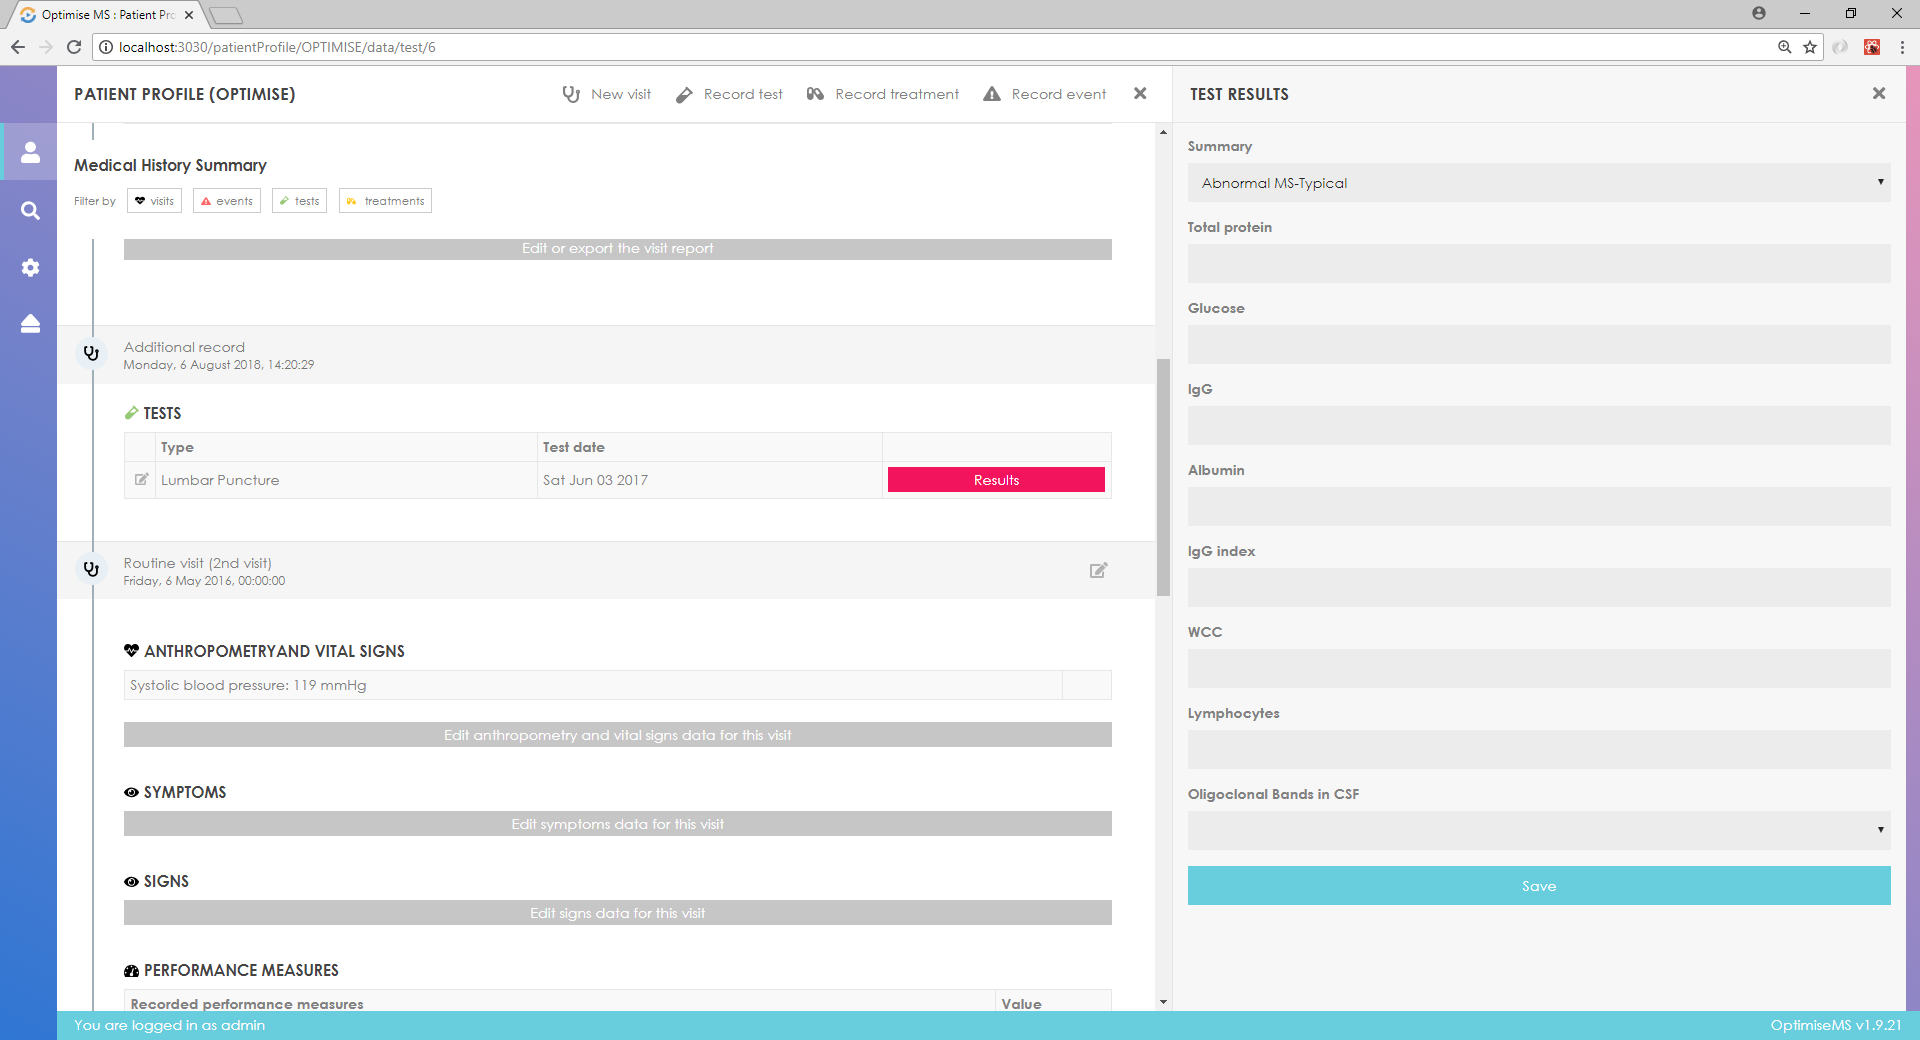
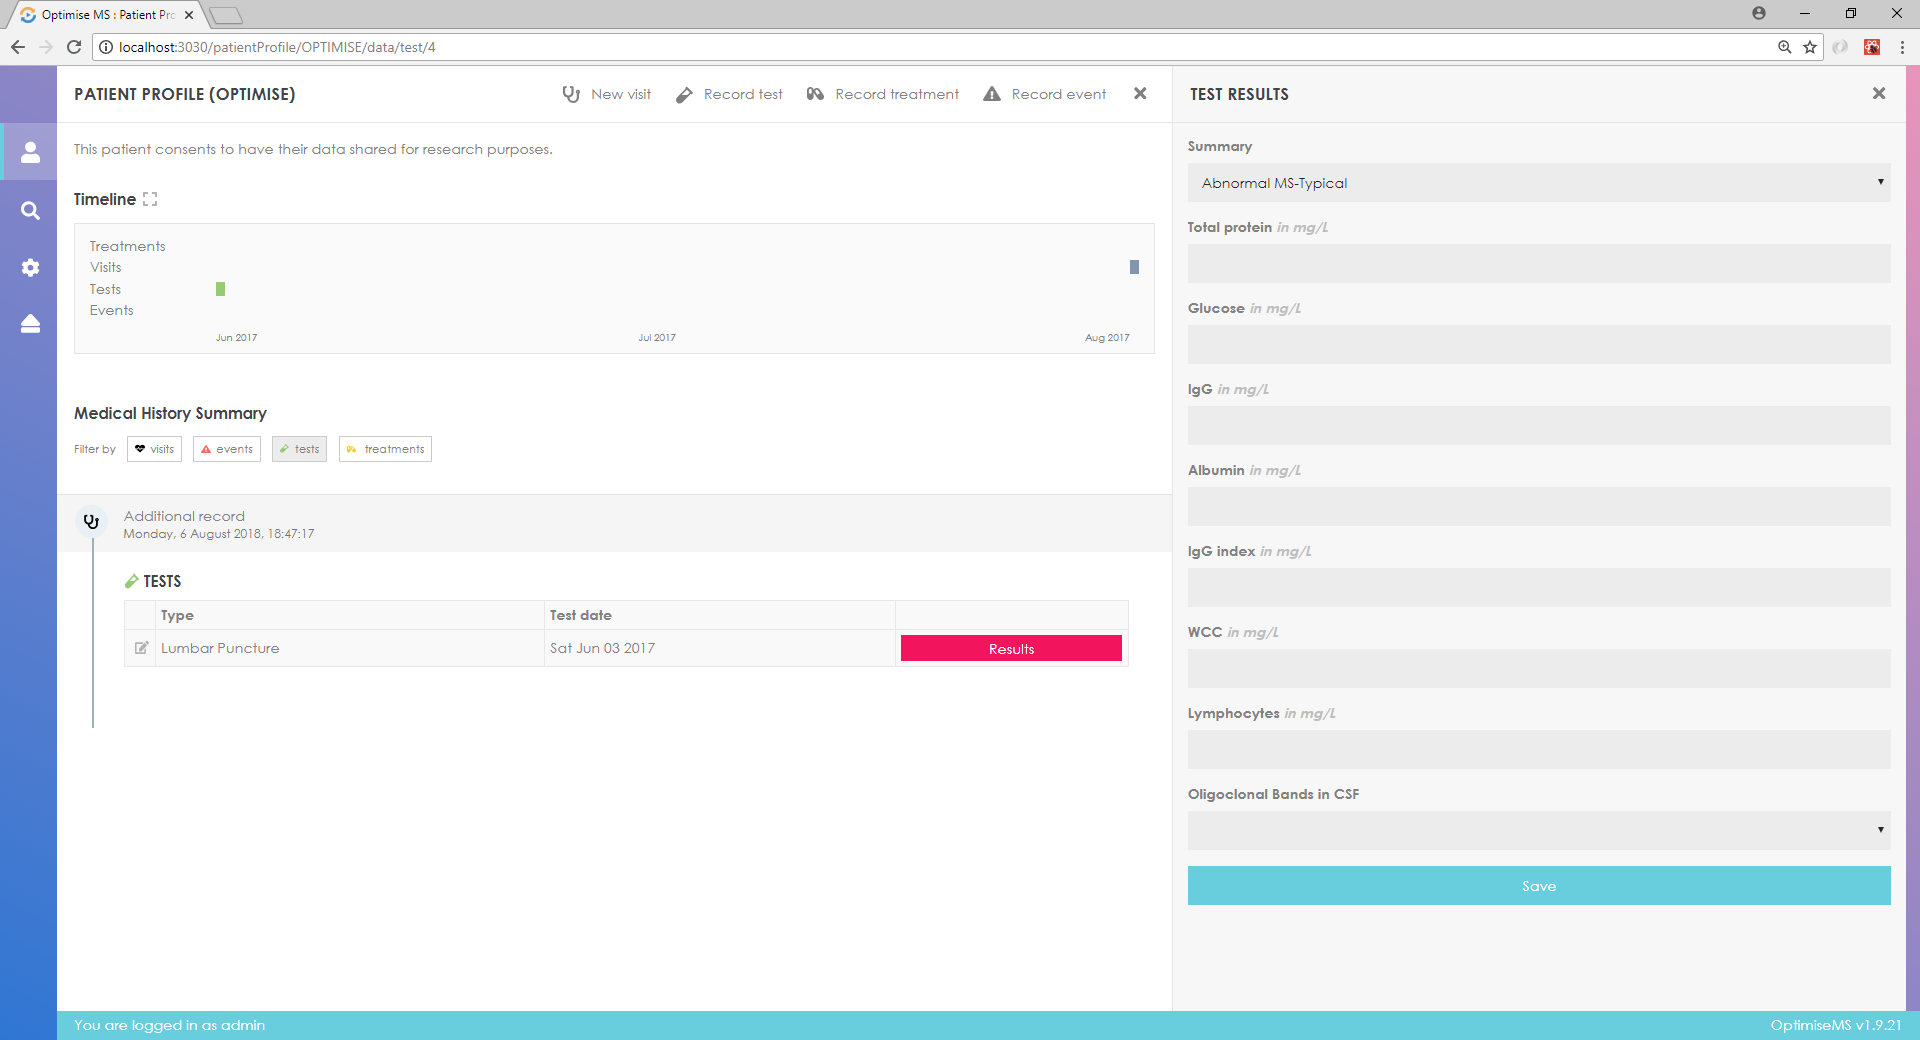
Adding some error messages/ Minor changes

diff --git a/website/extra/usermanual.html b/website/extra/usermanual.html
@@ -176,6 +176,8 @@
                     <img src="../img/perfMeasures.png" alt="perfMeasures"><br/><br/>
                     <p>The EDSS can be entered in two ways; the neurologist’s estimated EDSS or the calculated EDSS. The neurologist’s estimated EDSS score can be entered in the highlighted box in the right panel form.</p>
                     <img src="../img/estimatedEDSS.png" alt="estimatedEDSS"><br/><br/>
+                    <p>Only valid EDSS total scores (0 to 10 by 0.5 increment) may be accepted in this field. Entering a value other than those permitted will generate an error.</p>
+                    <img src="../img/edssError.png" alt="edssError"><br/><br/>
                     <p>Click Save for this estimated EDSS to be recorded. In addition, or alternatively, the functional systems can be scored separately and the total EDSS can be calculated by clicking on Open EDSS Calculator.</p>
                     <img src="../img/openCalc.png" alt="EDSScalculator"><br/><br/>
                     <p>For this, select a score for each EDSS subcategory. Hover over a score button to see the respective score description highlighted. The calculated total score will be shown in the Calculated score box. Note that an Ambulation score is required for the functional scores to be saved. Click Save to record the scores and then X to exit the calculator. To exit Performance Measures and return to the Patient Overview, click on X at the top right corner of the EDSS form.</p>
@@ -203,13 +205,20 @@
                     <img src="../img/testAdded.png" alt="testFormAdded"><br/><br/>
                     <p>Click on Results to enter further data for the test.</p>
                     <img src="../img/testResultsButton.png" alt="testResultsButton"><br/><br/>
-                    <p>Complete the form in the right panel. Click Save to record the test results or click X to cancel and return to the Patient Overview.</p>
+                    <p>Complete the form in the right panel and click Save to record the test results.</p>
                     <img src="../img/testResultsForm.png" alt="testResultsForm"><br/><br/>
+                    <p>Entering non-numeric input where this is invalid will generate the following error message. Correct and click Save.</p>
+                    <img src="../img/testResultsFormError.png" alt="testResultsFormError"><br/><br/>
+                    <p>At any point you can click X to cancel the test data entry and return to the Patient Overview.</p>
                     <p>Laboratory tests refer to blood or CSF tests only, e.g. total WBC, bilirubin and specific anti-body titres. After entering test results for a given reporting date, scroll down to the end of the page and click Save. Click X to return to the Patient Overview.</p>
-                    <img src="../img/labForm.png" alt="labForm"><br/><br/>                    
+                    <img src="../img/labForm.png" alt="labForm"><br/><br/>
+                    <p>Entering non-numeric characters in the laboratory tests will generate the following error message as numeric input is expected.</p>
+                    <img src="../img/labFormError.png" alt="labFormError"><br/><br/>
                     <p>Currently, only data concerning the presence or absence of T1 Hypointense Lesions and number of T2 Hyperintense Lesions and gadolinium (Gd) contrast enhancing lesions can be entered into the OPTIMISE MS database. The fields for an MRI test type are shown below.</p>
                     <img src="../img/mriForm.png" alt="mriForm"><br/><br/>
-                    <p>The Evoked Potential test section allows recording of the P100 Visual Evoked Potential amplitude and latency. Sensory Evoked Potentials (SEP) with stimulation in the limbs are recorded if Abnormal.</p>
+                    <p>The data input in the MRI form is also validated. Entering non-numeric characters in Lesion Volume, for example, will generate the following error message.</p>
+                    <img src="../img/mriFormError.png" alt="mriFormError"><br/><br/>
+                    <p>The Evoked Potential test section allows recording of the P100 Visual Evoked Potential amplitude and latency. Sensory Evoked Potentials (SEP) with stimulation in the limbs are recorded if Abnormal. Data validation is applied here as well- only numeric input is accepted in some fields.</p>
                     <img src="../img/evokedPotentialForm.png" alt="evokedPotentialForm"><br/><br/>                    
                     <p>Click on <img src="../img/trtButton.png" alt="newTreatment"> to enter treatment data.</p>
                     <img src="../img/newTreatment.png" alt="newTreatment"><br/><br/>
